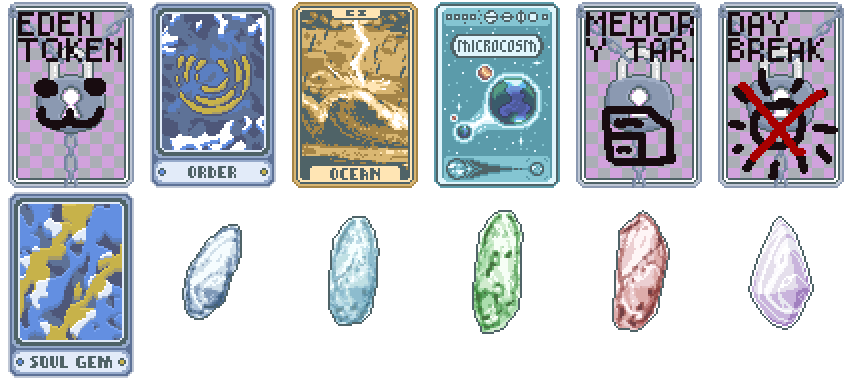
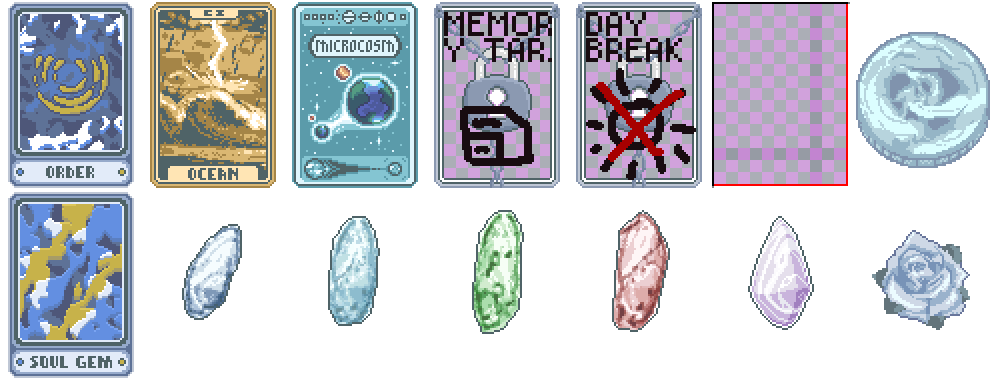
Textrue and Pronoun Setup

diff --git a/README.md b/README.md
@@ -73,7 +73,7 @@ visit the [Steammodded Wiki](https://github.com/Steamodded/smods/wiki) to learn 
 | Risky Joker | Scoring cards take<br>5 Chips and 1 Mult<br>and increase the<br>Blind Payout by $1<br>(Next payout +$0) | $6 | Common | - |
 | Silver Mask | Earn $20 at the<br>end of the round<br>Earn $2 less for<br>each Hand size | $6 | Common | - |
 | Stocked Shelves | +1 Booster pack,<br>Card and Voucher<br>slot in Shop | $5 | Common | - |
-| Target Plush | +12 Chips for<br>each Joker and<br>+5 Mult for each<br>empty Joker slot<br>(+0 Chips, +0 Mult) | $6 | Common | - |
+| Fox Plush | +12 Chips for<br>each Joker and<br>+5 Mult for each<br>empty Joker slot<br>(+0 Chips, +0 Mult) | $6 | Common | - |
 | Tempered Glass | 50% chance to<br>Revive destroyed<br>Glass Cards<br>(Fixed probability) | $4 | Common | - |
 | To n' Fro | Played cards swap<br>Chips and Mult<br>before scoring | $5 | Common | - |
 | Axe | Each Spade card<br>held in hand has<br>a 20% chance to<br>be destroyed<br>Suit changes<br>every round<br>80/100 uses left | $6 | Common | Tool, Repairable |
